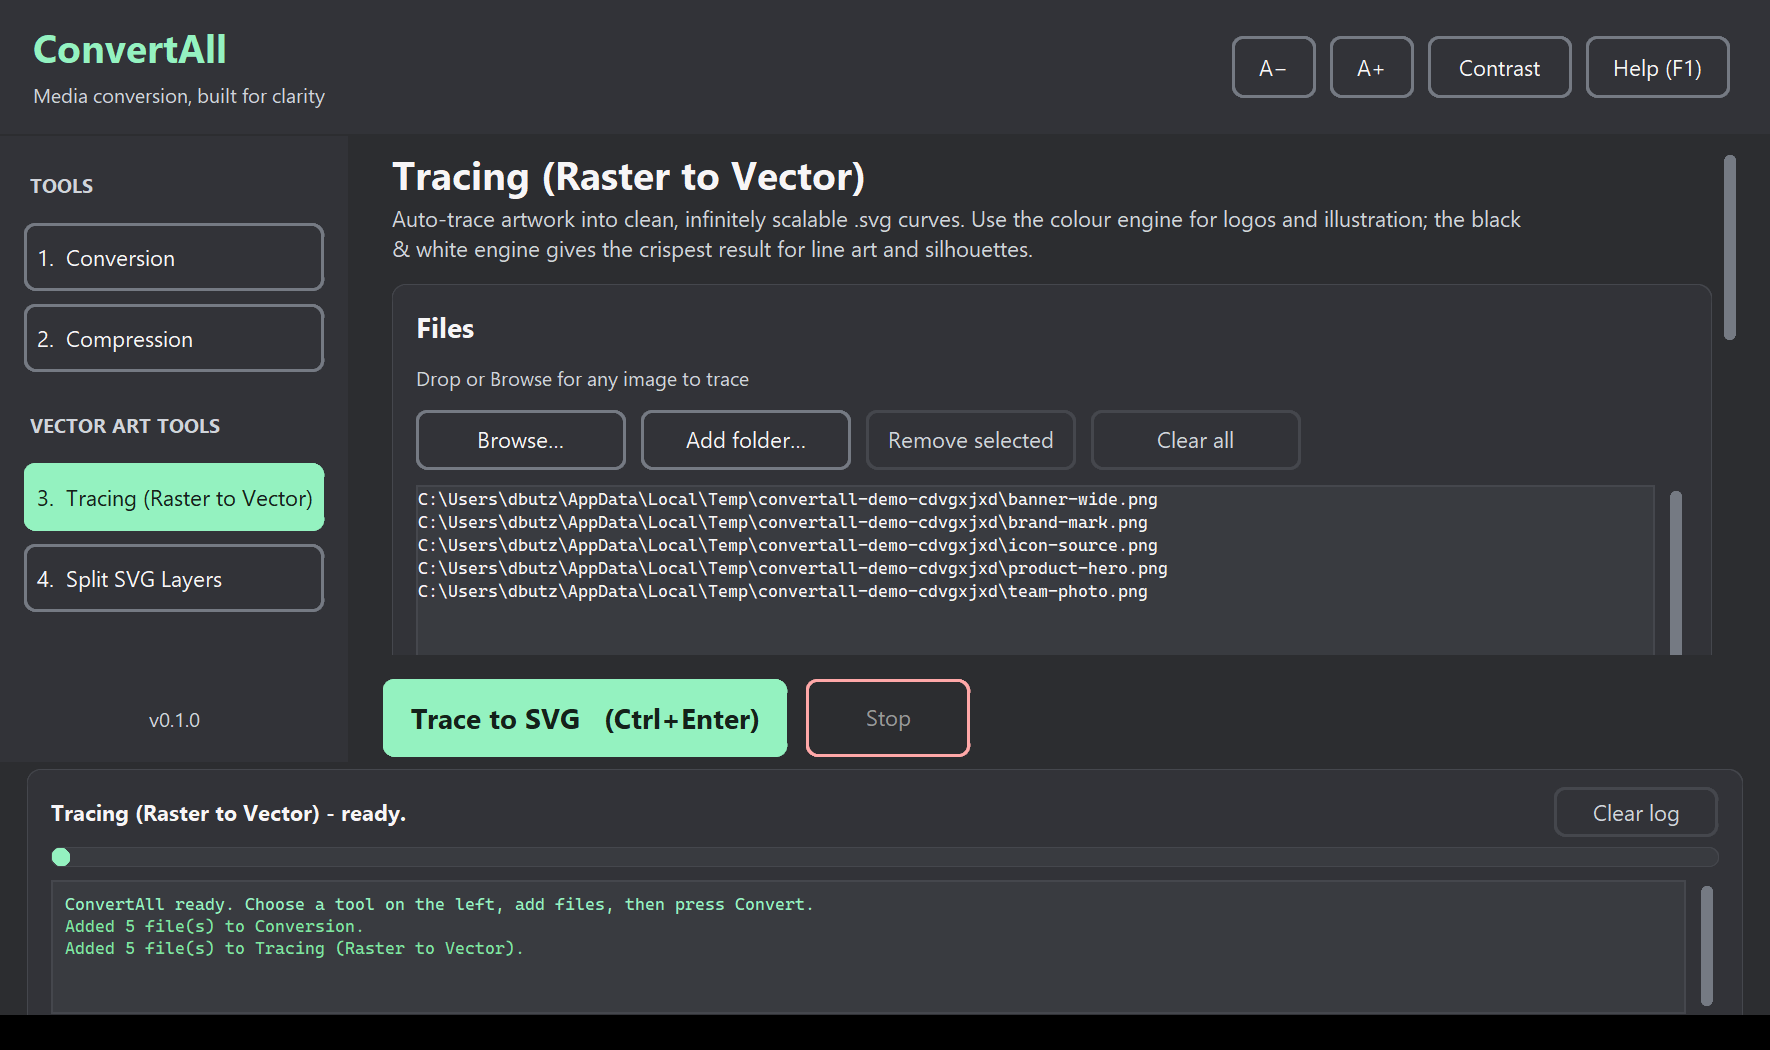
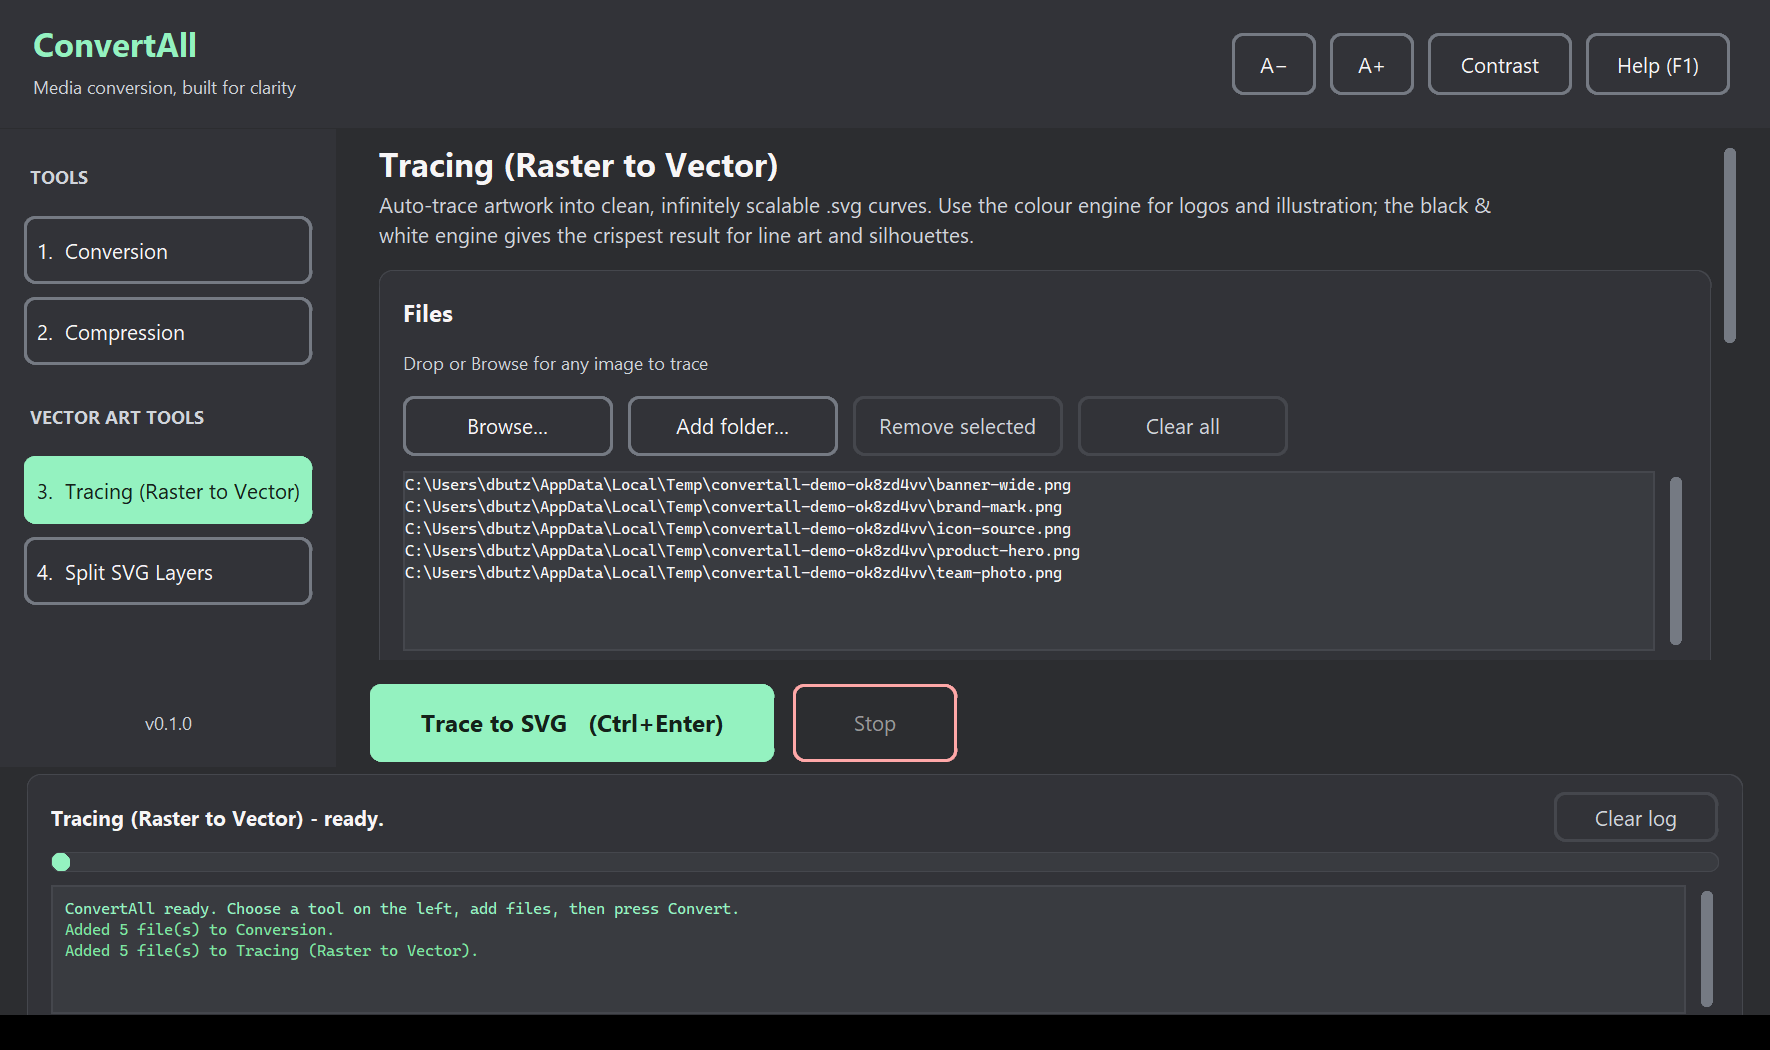
Darken hover states and ship a normal default type scale
Hover now steps the accent down rather than up - mint to a deeper mint, white
to a light grey. The interface should not get brighter as the mouse crosses it.

The type scale drops to ordinary desktop sizes (body 15 -> 14, title 19 -> 16,
display 26 -> 22). The app was arriving pre-enlarged, which reads as an
accessibility appliance rather than a normal application. Scaling up to 160%
is still one keystroke away; it is now an option rather than the default.

Contrast is unaffected: the darker hover mint carries its label at 9.6:1 and
the darker white at 13.5:1, both AAA.

diff --git a/convertall/theme.py b/convertall/theme.py
@@ -61,7 +61,7 @@ DARK = Palette(
     text="#F7F5F6",  # 12.7:1 on bg (AAA) - off-white, never pure #FFF
     text_muted="#D0D4DA",  # 7.3:1 on the lightest surface (AAA)
     accent="#94F2C0",  # 10.3:1 on bg (AAA) - mint; higher contrast than teal
-    accent_hover="#C2F9DC",  # 13.8:1 on bg (AAA)
+    accent_hover="#6FD9A3",  # darker mint - hover presses down, never flares
     on_accent="#14211A",  # 13.6:1 on accent (AAA)
     focus="#FF9E64",  # orange ring, ~125 degrees from mint - never yellow
     success="#7EE6A0",  # 9.0:1 on bg (AAA)
@@ -83,7 +83,7 @@ MAXIMUM = Palette(
     text="#FFFFFF",  # 21:1 - the highest possible
     text_muted="#FFFFFF",
     accent="#FFFFFF",  # 21:1 - selection inverts instead of colouring
-    accent_hover="#94F2C0",  # mint hover, 15.4:1, ties it to the default theme
+    accent_hover="#CFCFCF",  # darker white, same "press down" behaviour
     on_accent="#000000",
     focus="#00FFFF",  # 16.7:1 cyan ring, unmistakable against white and mint
     success="#7CFFB0",
@@ -93,14 +93,15 @@ MAXIMUM = Palette(
 
 PALETTES: dict[str, Palette] = {p.key: p for p in (DARK, MAXIMUM)}
 
-# Type scale. The app can step every size up or down together (Ctrl +/-) so the
-# whole interface scales for low-vision users without breaking the layout.
+# Type scale. These are ordinary desktop-application sizes - the app should look
+# normal out of the box, not pre-enlarged. Ctrl +/- steps every size together,
+# up to 160%, for anyone who wants it larger.
 BASE_SIZES = {
-    "display": 26,
-    "title": 19,
-    "body": 15,
-    "small": 13,
-    "mono": 13,
+    "display": 22,
+    "title": 16,
+    "body": 14,
+    "small": 12,
+    "mono": 12,
 }
 FONT_FAMILY = "Segoe UI"
 MONO_FAMILY = "Cascadia Mono"

diff --git a/CHANGELOG.md b/CHANGELOG.md
@@ -26,6 +26,12 @@ and this project adheres to [Semantic Versioning](https://semver.org/spec/v2.0.0
   (`#94F2C0`, 10.3:1). *Maximum contrast* drops its yellow for plain white on
   black at 21:1, with the selected item inverting rather than tinting.
   Saturated yellow scores well on paper and is tiring to actually look at.
+- **Hover darkens instead of lightening.** The mint and white accents step down
+  on hover rather than flaring up, so the interface never gets brighter as the
+  mouse moves across it.
+- **The default type scale is ordinary desktop size**, not pre-enlarged. Text
+  scaling is an option (`Ctrl` + `+`, up to 160%) rather than the starting
+  point, so the app looks like a normal application out of the box.
 - Hover no longer floods a whole button with the accent — it tints the surface
   and recolours the label, leaving one saturated block on screen instead of
   lighting up the interface as the mouse moves.
